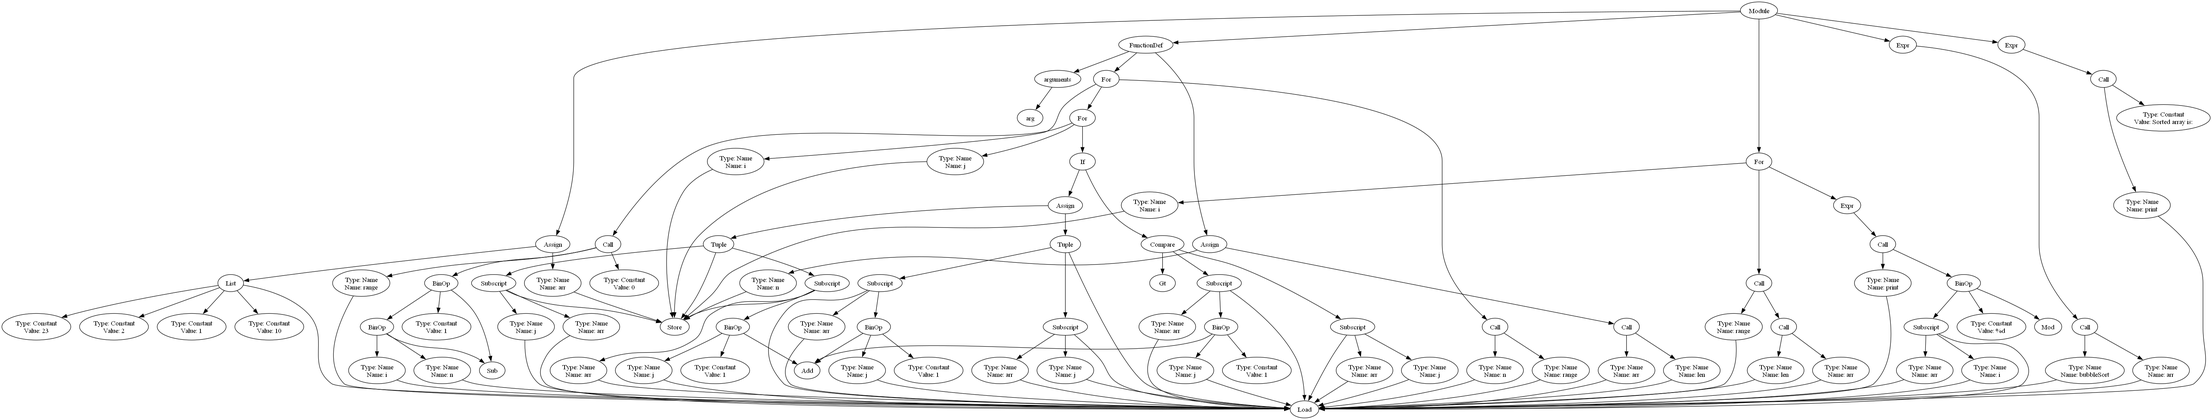
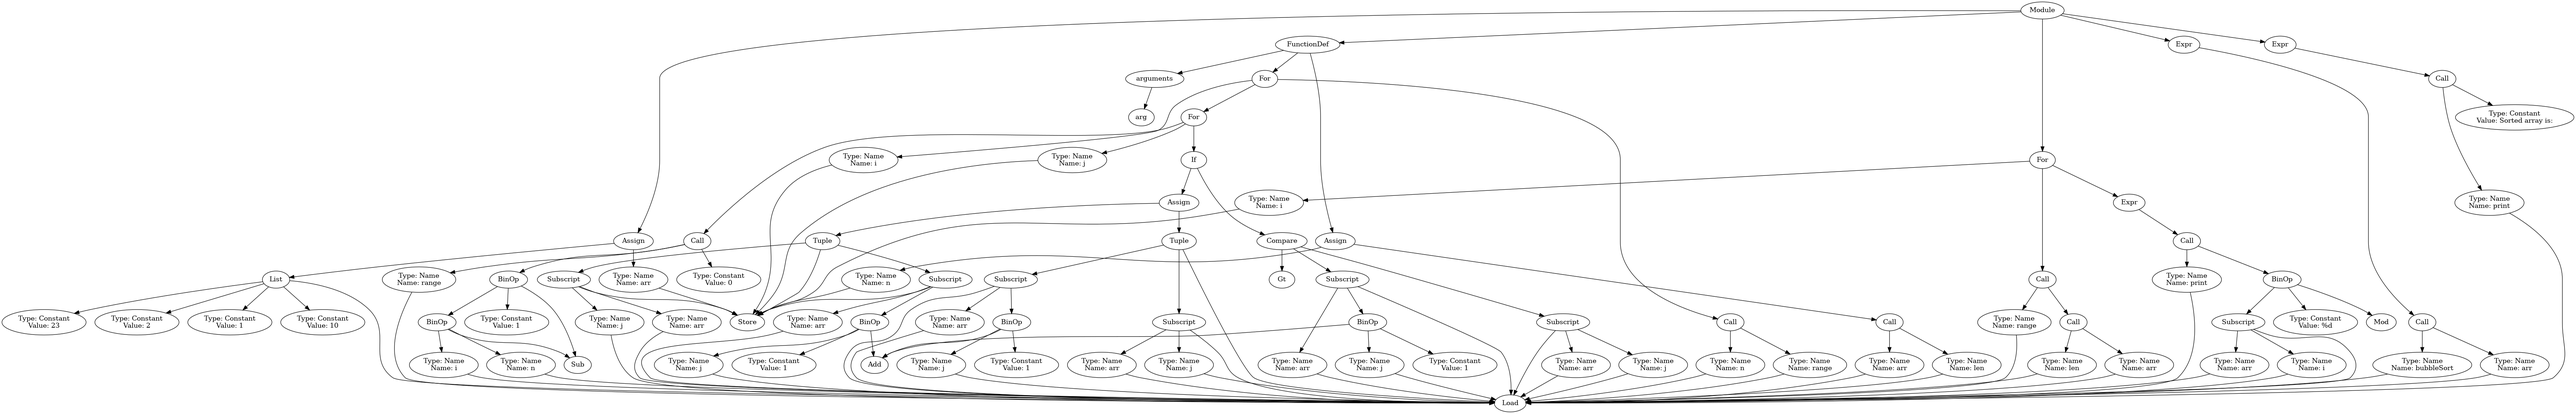
progress 1

diff --git a/test-llvm.py b/test-llvm.py
@@ -1,0 +1,47 @@
+from llvmlite import ir
+import ast 
+
+class LLVMIRBuilder(ast.NodeVisitor):
+    def __init__(self):
+        self.module = ir.Module(name="my_module")
+        self.builder = None
+
+    def build_ir(self, tree):
+        self.visit(tree)
+        return self.module
+
+    def visit_FunctionDef(self, node):
+        func_ty = ir.FunctionType(ir.VoidType(), [])
+        func = ir.Function(self.module, func_ty, name=node.name)
+        block = func.append_basic_block(name="entry")
+        self.builder = ir.IRBuilder(block)
+        self.generic_visit(node)
+
+    def visit_Assign(self, node):
+        if isinstance(node.targets[0], ast.Name) and isinstance(node.value, ast.Constant):
+            var = ir.GlobalVariable(self.module, ir.IntType(32), node.targets[0].id)
+            var.initializer = ir.Constant(ir.IntType(32), node.value.value)
+        self.generic_visit(node)
+
+    def visit_Add(self, node):
+        left = self.visit(node.left)
+        right = self.visit(node.right)
+        return self.builder.add(left, right)
+
+    def visit_Name(self, node):
+        return self.module.globals[node.id]
+
+    def visit_Constant(self, node):
+        return ir.Constant(ir.IntType(32), node.value)
+
+# Example usage:
+input_ast = ast.parse('''
+x = 10
+y = 20
+z = x + y
+''')
+
+# Build LLVM IR
+ir_builder = LLVMIRBuilder()
+ir_module = ir_builder.build_ir(input_ast)
+print(ir_module)

diff --git a/compiler.py b/compiler.py
@@ -1,0 +1,31 @@
+import ast
+import io
+import tokenize
+
+def tokenize_code(source_code):
+    tokens = []
+    source_bytes = io.BytesIO(source_code.encode())
+    for token in tokenize.tokenize(source_bytes.readline):
+        tokens.append((tokenize.tok_name[token.type], token.string.strip()))
+    return tokens
+
+def parse_tokens(tokens):
+    source_code = ''.join(token[1] for token in tokens)
+    return ast.parse(source_code)
+
+
+source_code = """
+x = 10
+if x == 10:
+    result = x * 2
+else:
+    result = x
+"""
+
+# Example usage:
+if __name__ == "__main__":
+    
+    tokens = tokenize_code(source_code)
+    print("Tokens:", tokens)
+    ast_tree = parse_tokens(tokens)
+    print("AST:", ast.dump(ast_tree))

diff --git a/module/lexer.py b/module/lexer.py
@@ -1,0 +1,21 @@
+import io
+import tokenize
+
+def tokenize_code(source_code):
+    tokens = []
+    source_bytes = io.BytesIO(source_code.encode())
+    for token in tokenize.tokenize(source_bytes.readline):
+        token_type = tokenize.tok_name[token.type]
+        token_value = token.string.strip()
+        tokens.append((token_type, token_value))
+    return tokens
+
+# Example usage:
+if __name__ == "__main__":
+    source_code = """
+    if x == 10:
+        result = x * 2
+    """
+    tokens = tokenize_code(source_code)
+    for token in tokens:
+        print(token)

diff --git a/module/parser.py b/module/parser.py
@@ -1,0 +1,13 @@
+import ast
+source_code = """
+x = 10
+if x == 10:
+    result = x * 2
+else:
+    result = x
+"""
+# Example usage:
+if __name__ == "__main__":
+    
+    ast_tree = ast.parse(source_code)
+    print(ast.dump(ast_tree))

diff --git a/compilation/dag.py b/compilation/dag.py
@@ -78,6 +78,7 @@ for i in range(len(arr)):
 # Build DAG
 dag_builder = DAGBuilder()
 dag_graph = dag_builder.build_dag(input_ast)
+print(dag_graph)
 
 # Render and display DAG
 dag_graph.render('dag_graph', format='png', cleanup=True)
